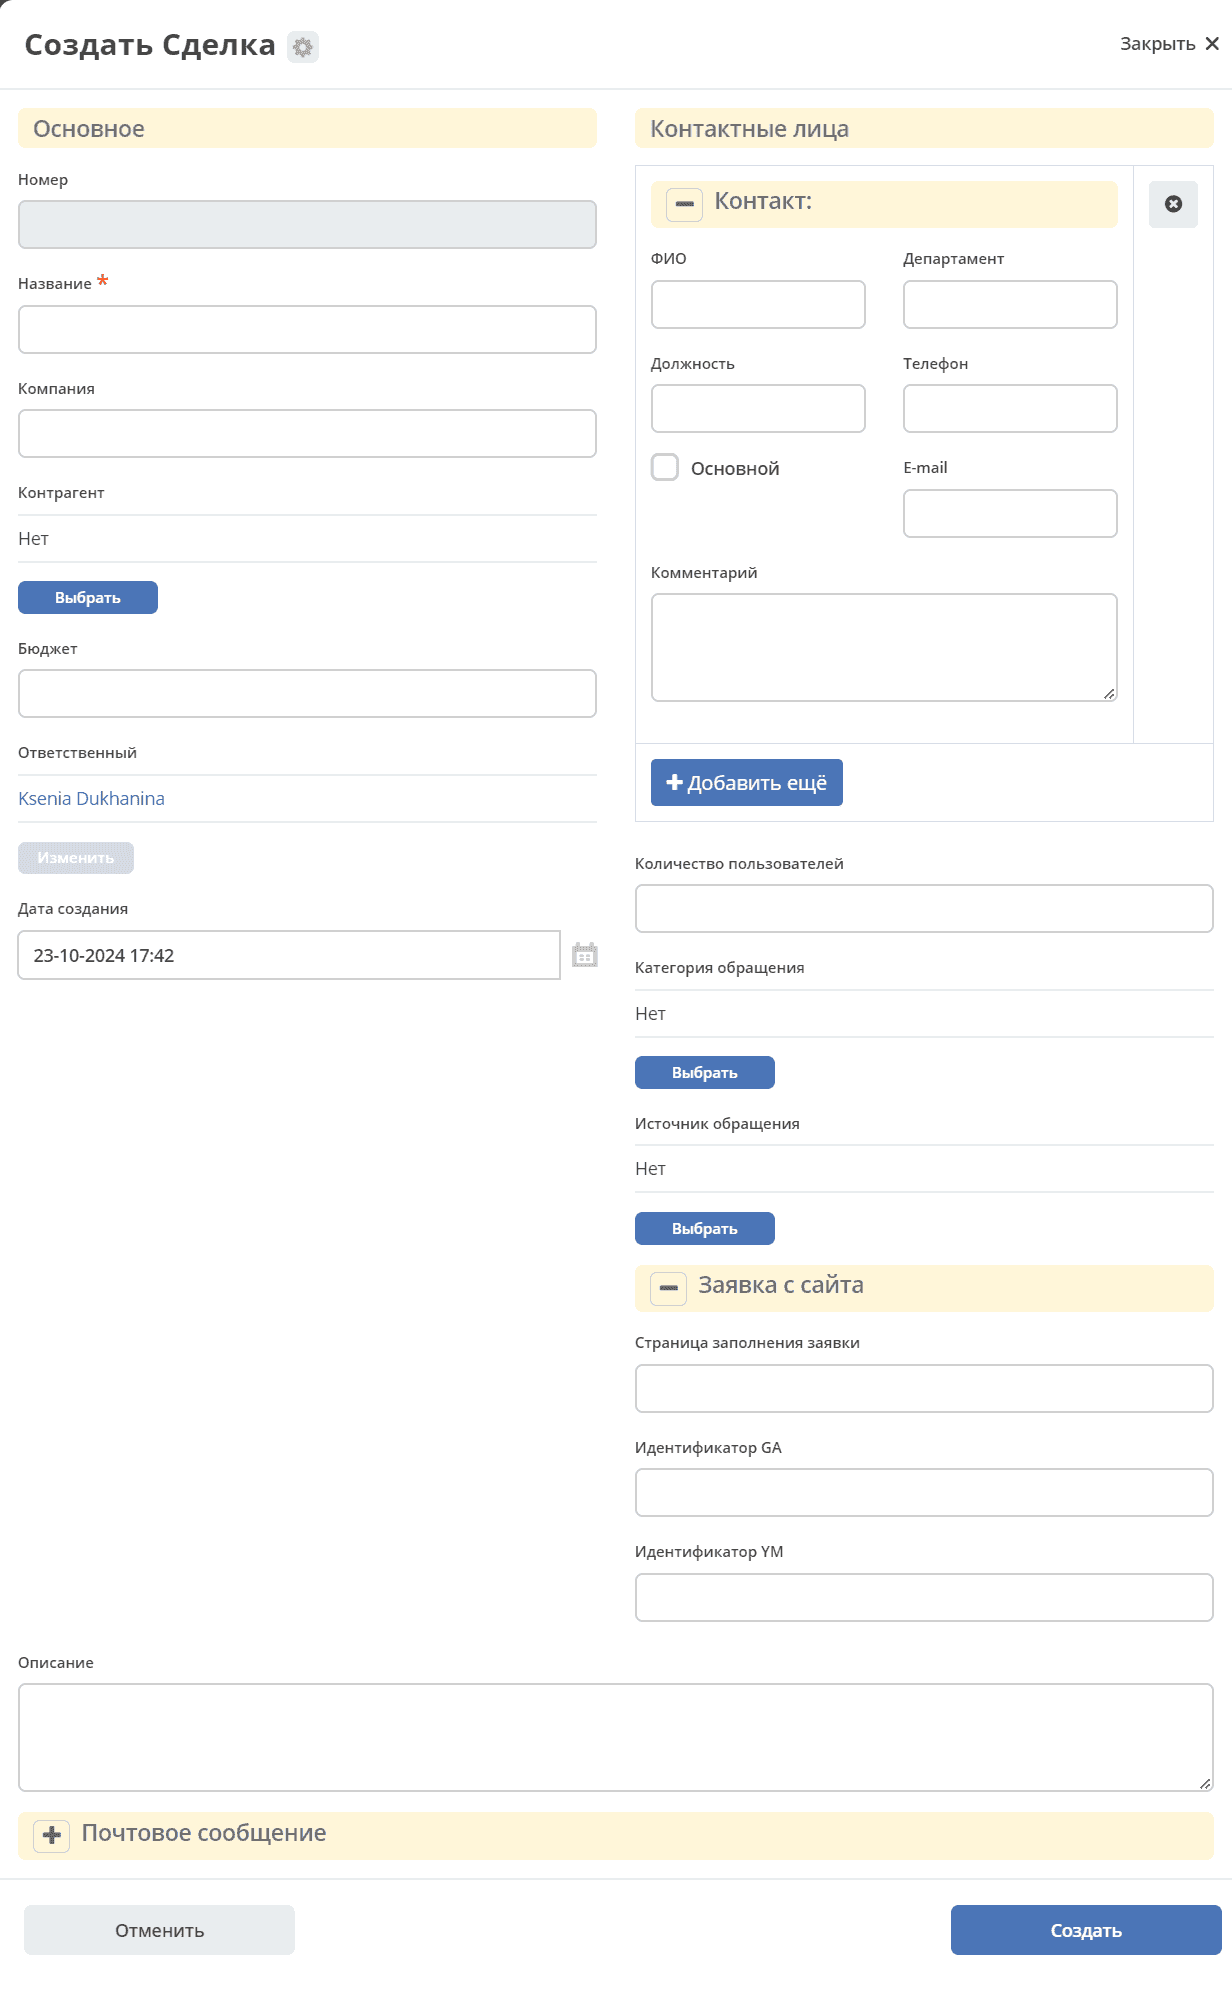
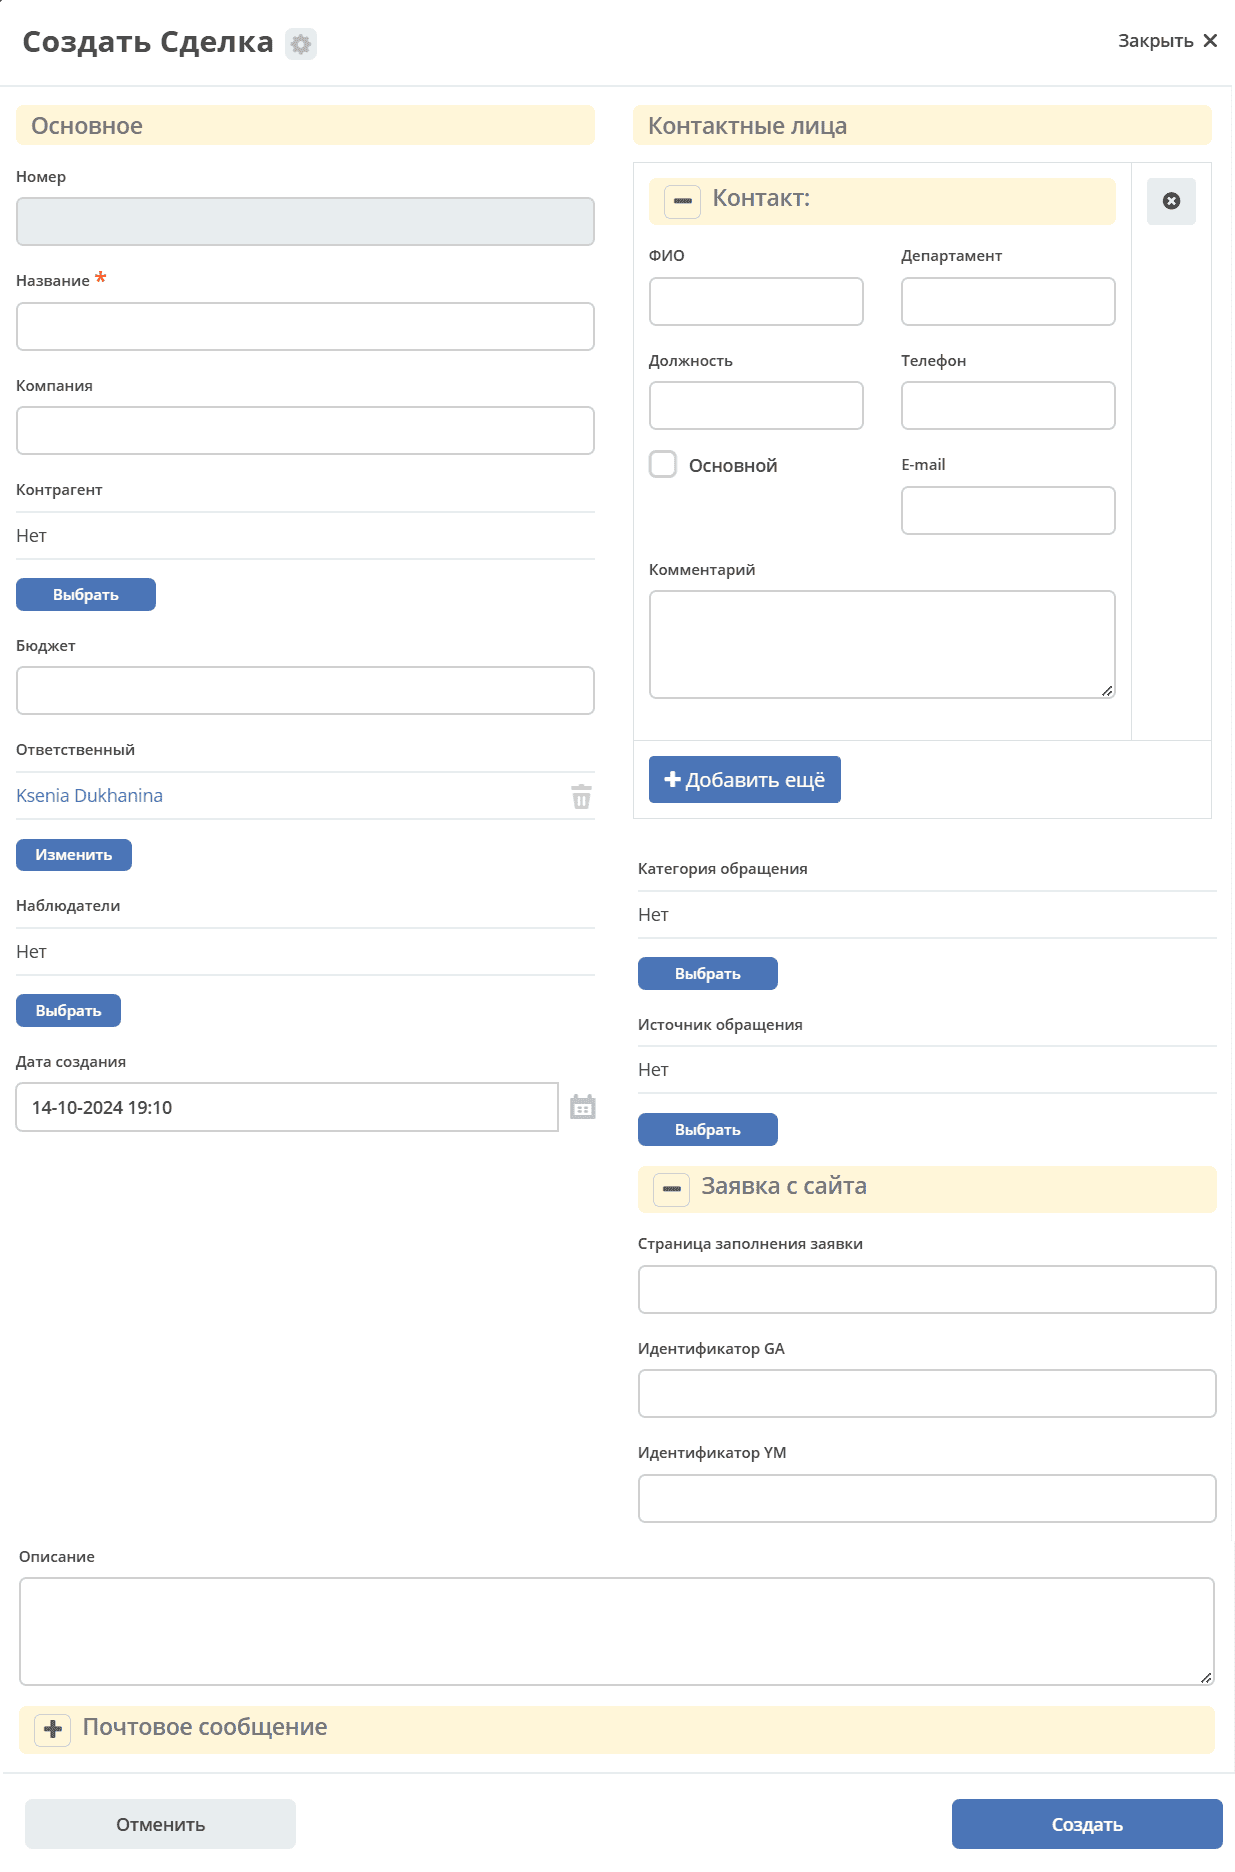
ECOSENT-3196
ECOSENT-3196 CRM: Add viewer and all managers roles

diff --git a/docs/introduction/ecos_modules/crm.rst b/docs/introduction/ecos_modules/crm.rst
@@ -21,15 +21,19 @@
       :class: tight-table 
       
       * - **Менеджер по продажам**
-        - Пользователь Системы (сотрудник Компании), запустивший сделку в работу. Видит только свои сделки.
+        - Пользователь, запустивший сделку в работу. Видит только свои сделки.
       * - **Коммерческий директор**
-        - Пользователь Системы (сотрудник Компании), принимающий решение по сделкам. Видит все сделки.
+        - Пользователь, принимающий решение по сделкам. Видит все сделки.
+      * - **Все менеджеры CRM**
+        - Пользователи - участники роли имеют право на просмотр всех сделок. В неё по умолчанию добавлена группа crm-manager. Если пользователь не входит в группу crm-manager, роль на него не распространяется.
+      * - **Наблюдатели**
+        - Пользователи, которым предоставляется дополнительный доступ на чтение к той или иной сделке.
 
 Группы оргструктуры, в которые должны быть добавлены пользователи
 ~~~~~~~~~~~~~~~~~~~~~~~~~~~~~~~~~~~~~~~~~~~~~~~~~~~~~~~~~~~~~~~~~~~~~~~~
 
-  * Менеджер CRM
-  * Коммерческий директор
+  * Менеджер CRM (crm-cco)
+  * Коммерческий директор (crm-manager)
 
 Статусы
 --------
@@ -135,6 +139,8 @@
         - Бюджет сделки
       * - **Ответственный**
         - Выбрать из справочника менеджера, ответственного за сделку
+      * - **Наблюдатели**
+        - Выбрать из справочника пользователей, которым предоставляется дополнительный доступ на чтение к сделке
       * - **Дата создания**
         - Заполняется автоматически, может быть изменена
       * - **Описание**

diff --git a/docs/introduction/ecos_modules.rst b/docs/introduction/ecos_modules.rst
@@ -1,5 +1,5 @@
-Готовые модули Citeck
-=======================
+Готовые функциональные модули Citeck
+======================================
 
 .. _ecos_modules:
 
